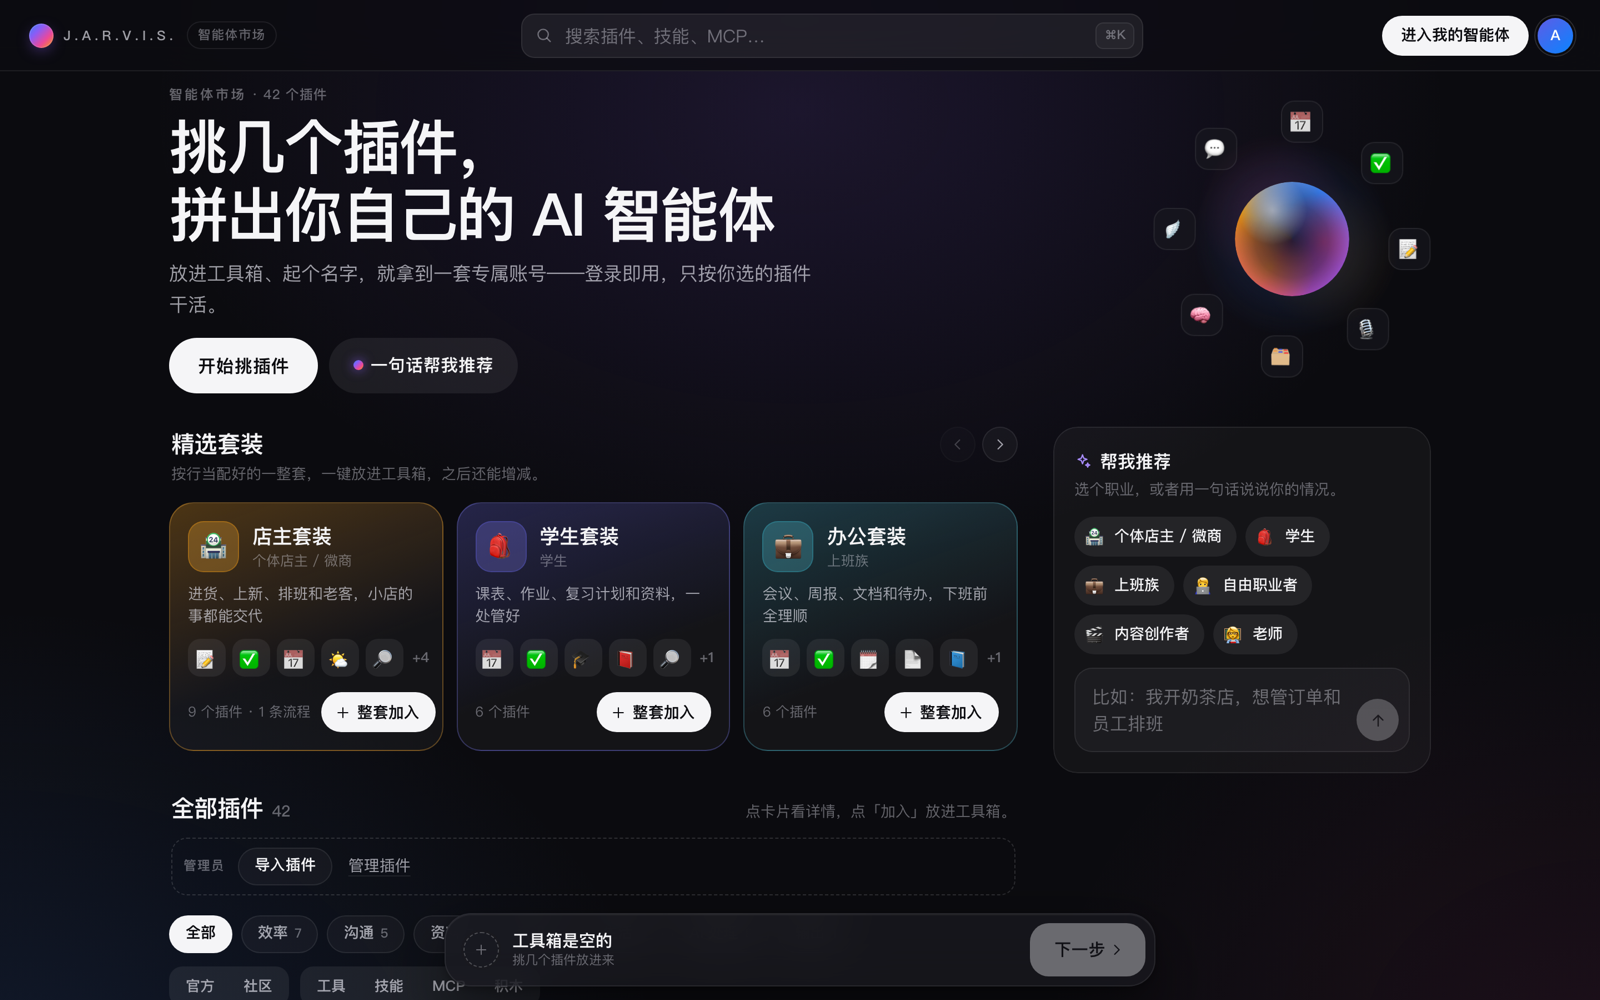
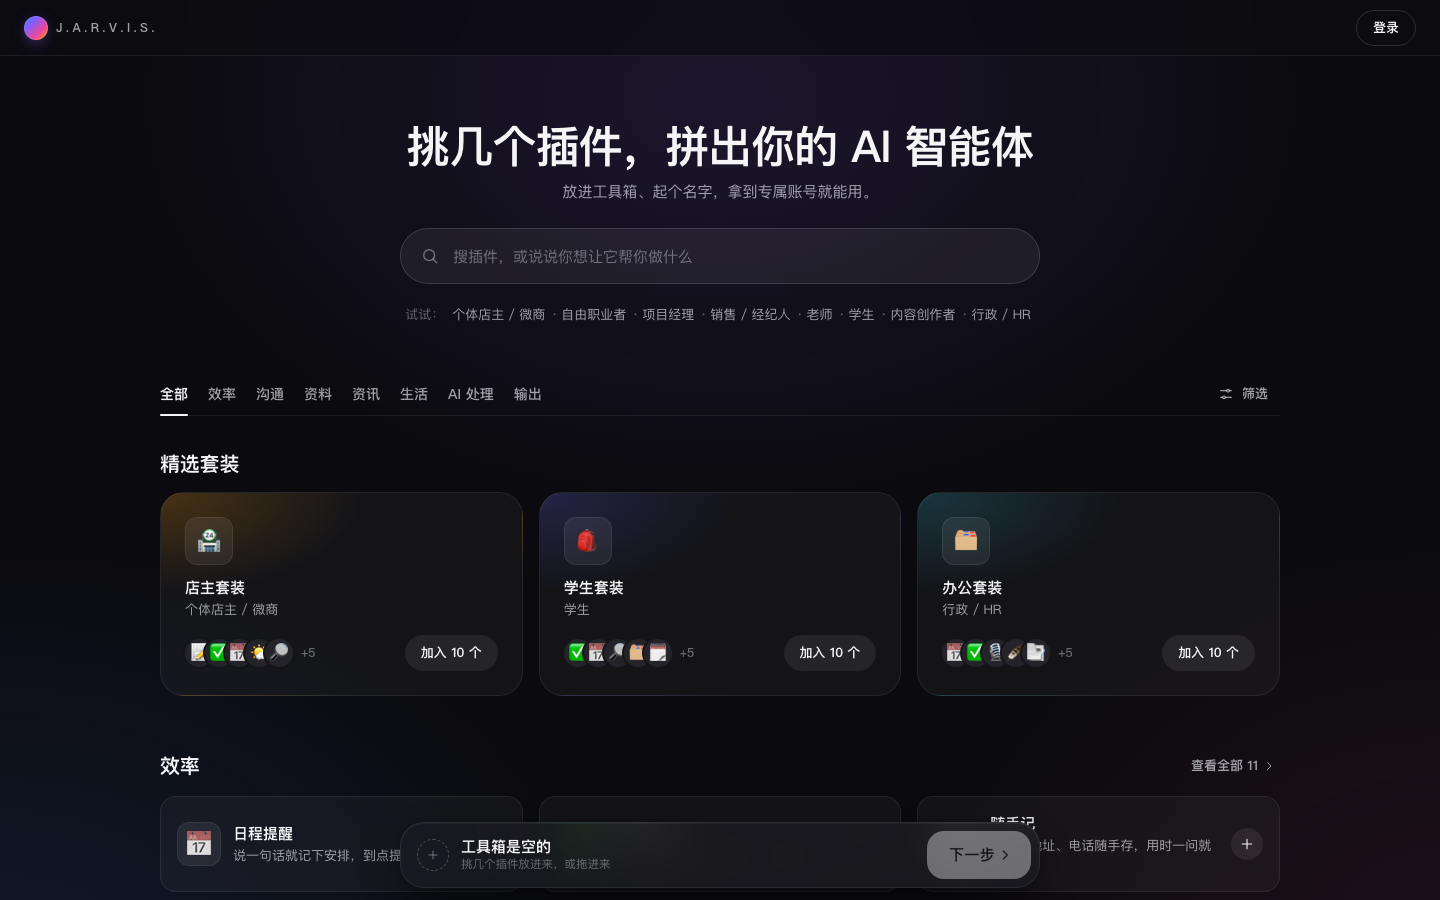
docs: 第十六、十七轮更新日志、功能说明与进度记录；市场首页与拖拽截图

diff --git a/docs/features.md b/docs/features.md
@@ -26,8 +26,9 @@
 
 ### 智能体工坊
 
-- **智能体市场就是首页**：打开网站根地址 `/` 就是市场（不登录也能逛；登录在 `/login`，主应用在 `/app`，旧的 `/market`、`/?u=` 链接自动跳转）。参考 Codex / ChatGPT 的插件目录：顶栏搜索（⌘K 或 `/` 聚焦，名称、示例、工具名都能搜）、精选套装一键整套加入、按分类 × 来源（官方 / 社区 / 插件源）× 类型（工具 / 技能 / MCP / 积木）筛选；插件卡带官方、社区、MCP、技能、专业版、需要配置等徽标。点卡片打开详情（`?plugin=<id>`，可分享、可后退）：能做什么、试试这样问（点一下复制或带去推荐）、需要什么（联网主机、要填的 Key、绑定）、来源与许可证、同类推荐。点「加入」放进底部工具箱，工具箱里能排序、移除，并显示类型分布。
+- **智能体市场就是首页**：打开网站根地址 `/` 就是市场（不登录也能逛；登录在 `/login`，主应用在 `/app`，旧的 `/market`、`/?u=` 链接自动跳转）。版面参考苹果 App Store、华为应用市场、Anthropic 插件目录与 ChatGPT：首屏一句主张、一个大搜索框、分类页签，同屏只有一个实心主按钮。搜索框兼做推荐——输入像一句话（「我开奶茶店，想管订单」）时，下拉第一行是「让 AI 按这句推荐一套」，回车即推荐；空着获焦给出最近搜索和按行当推荐；滚过首屏后顶栏淡入紧凑搜索（⌘K 或 `/` 聚焦）。精选套装一行三张；插件是紧凑行卡（图标、名称、一句话、圆形「+」，徽标最多一个：需要配置 > 暂不可用 > 专业版 > MCP > 社区）；来源与类型收在「筛选」里（手机是底部抽屉）。点卡片打开详情（`?plugin=<id>`，可分享、可后退）：能做什么、试试这样问、需要什么、来源与许可证、同类推荐。
 - **帮我推荐**：选一个职业（个体店主 / 微商、自由职业者、项目经理、销售、老师、学生、内容创作者、行政 / HR），或者用一句话说说自己的情况；有描述时由模型从插件清单里挑（只许选清单里的），并给出理由和推荐流程，「一键全部加入」。
+- **拖拽加入工具箱**：把插件卡或整套套装拖进底部工具箱，工具箱高亮并提示「松手加入 · 将有 N 个」；已在工具箱或需要配置的插件会显示原因、不加入；点「+」时图标飞进工具箱。工具箱抽屉里按住一行拖动排序（生成时按这个顺序装进智能体），拖出抽屉、或把工具箱上的小图标往上拖出即移除，5 秒内可撤销。手机长按卡片约 0.45 秒后拖动，正常滑动不受影响；每个拖拽动作都有按钮 / 键盘替代和读屏播报。
 - **专属账号即智能体**：给智能体起名、选图标和主题色（六选一），生成一套专属账号和口令——只显示这一次，可一键复制两行或存成图片，附一个「在手机上打开」二维码（扫开就是登录页、账号已填好）。用这套账号在现有登录页登录，进去就是按所选插件组装的智能体：对话里只用这些插件的工具（外加时间与计算），以智能体自己的名字自称；顶栏、主题色、问候语、快捷问题、「我的工具箱」「我的流程」都随之定制，「智能体设置」里可改名、换色、增减插件。没装的技能会直说「还没装，可以去智能体市场加上」，并给出替代办法。
 - **开号权限**：管理员登录后可直接在市场里帮客户开号；游客自助开号由 `JARVIS_MARKET_SIGNUP` 控制（`off` 默认 / `invite` 邀请码 / `open`），并有 IP 限流与总量上限，见 [配置参考](configuration.md)。
 - **积木流程**：`/flows` 里把「输入 → 处理 → 输出」拼成一条链：文字输入 / 资料上传（PDF、Word、TXT、MD、图片）→ 文件拆分 / AI 提炼（要点、待办、摘要、周报、改写）→ 加到待办 / 发飞书 / 汇总到飞书文档 / 发微信 / 生成网页二维码。可从职业模板一键新建，节点可增删、前后挪、逐个配置；试运行时信号沿连线流动、节点逐个亮起并给出每步摘要，最后生成一张手机可扫的结果网页（`/r/<token>`，30 天有效，免登录查看）。
@@ -225,8 +226,11 @@
 
 <table>
   <tr>
-    <td width="50%" align="center"><img src="assets/readme/web-market-home.png" alt="智能体市场首页" width="100%"><br><sub>首页即智能体市场：搜索、精选套装、按职业 / 一句话推荐</sub></td>
-    <td width="50%" align="center"><img src="assets/readme/web-market-result.png" alt="生成结果：专属账号口令与已装插件" width="100%"><br><sub>生成结果：专属账号口令（只显示一次）+ 装了哪些插件</sub></td>
+    <td width="50%" align="center"><img src="assets/readme/web-market-home.png" alt="智能体市场首页" width="100%"><br><sub>首页即智能体市场：一个搜索框兼做推荐、精选套装、紧凑插件行</sub></td>
+    <td width="50%" align="center"><img src="assets/readme/web-market-dnd.png" alt="把插件卡拖进底部工具箱" width="100%"><br><sub>拖拽加入：卡片拖到底部工具箱，工具箱高亮提示「松手加入」</sub></td>
+  </tr>
+  <tr>
+    <td colspan="2" align="center"><img src="assets/readme/web-market-result.png" alt="生成结果：专属账号口令与已装插件" width="50%"><br><sub>生成结果：专属账号口令（只显示一次）+ 装了哪些插件</sub></td>
   </tr>
   <tr>
     <td align="center"><img src="assets/readme/web-agent-home.png" alt="登录后的专属智能体主页" width="100%"><br><sub>登录后：按插件定制的智能体主页（名称、主题色、问候、工具箱、流程）</sub></td>

diff --git a/README.md b/README.md
@@ -81,7 +81,7 @@
 <td align="center" colspan="2"><img src="docs/assets/readme/web-mobile.png" alt="手机版：新对话、对话与「今日」板" width="88%"><br><sub>手机版（390×844）：新对话 · 对话 · 「今日」板</sub></td>
 </tr>
 <tr>
-<td align="center"><img src="docs/assets/readme/web-market-home.png" alt="智能体市场首页：搜索、精选套装、帮我推荐" width="100%"><br><sub>首页即智能体市场：搜索、精选套装、按职业 / 一句话推荐</sub></td>
+<td align="center"><img src="docs/assets/readme/web-market-home.png" alt="智能体市场首页：搜索、精选套装、帮我推荐" width="100%"><br><sub>首页即智能体市场：一个搜索框（也能一句话让 AI 推荐）、精选套装、紧凑插件行，拖进底部工具箱即可加入</sub></td>
 <td align="center"><img src="docs/assets/readme/web-flows.png" alt="积木流程运行完成" width="100%"><br><sub>积木流程：节点逐个亮起，跑完给出结果网页二维码</sub></td>
 </tr>
 <tr>
@@ -165,6 +165,19 @@ flowchart LR
 ## 最新动态
 
 <details open>
+<summary><b>第十七轮 · 2026-10-03</b>　插件市场去冗余改版 · 拖拽加入 · 进场动画每次刷新都播</summary>
+<img src="docs/assets/readme/web-market-dnd.png" alt="把插件卡拖进底部工具箱：工具箱高亮并提示松手加入" width="420" align="right">
+
+- **市场去冗余**：参考苹果 App Store、华为应用市场、Anthropic 插件目录与 ChatGPT 的版面，首屏只留一句主张、一个大搜索框和分类页签（首屏信息块 11 → 6，整页高度少四分之一）；同屏只有一个实心主按钮（工具箱的「下一步」）。插件卡改成紧凑行：图标、名称、一句话、圆形「+」，徽标最多一个；精选套装一行三张；手机首屏就能看到插件。「一句话帮我推荐」并进搜索框，来源与类型收进「筛选」，管理员的「插件管理」挪进头像菜单。
+- **拖拽加入**：把插件卡或整套套装拖进底部工具箱，工具箱高亮并提示「松手加入 · 将有 N 个」；已经加过或需要配置的插件拖过去会显示原因、不会加入；点「+」时图标飞进工具箱。工具箱里按住一行拖动排序（生成时按这个顺序装），往外拖或把工具箱上的小图标往上拖出就是移除，5 秒内可撤销；手机长按卡片即可拖动，正常上下滑不受影响。全程键盘可用、读屏有播报，零新依赖。
+- **详情与结果页重做**：插件详情、起名配色、生成账号结果页统一成同一套间距、圆角和按钮层级。
+- **进场动画每次打开或刷新都播**：市场、登录页、主应用、流程页都播（站内切页不重播，品牌智能体入口不播）；系统开了「减弱动态效果」时改为不到 1 秒的静态淡入。
+- 测试基线 **pytest 1482 / vitest 558 / desktop 166**，全部通过；真后端联调 22 项全过。调研与方案见 [`docs/design/2026-10-market-references.md`](docs/design/2026-10-market-references.md)、[`docs/proposals/2026-10-round17-market.md`](docs/proposals/2026-10-round17-market.md)。
+
+<br clear="right">
+</details>
+
+<details>
 <summary><b>第十五轮 · 2026-10-02</b>　市场做首页 · 参考 Codex 重做插件目录 · MCP 接入 · 49 个官方开源插件 · /login</summary>
 
 <img src="docs/assets/readme/web-market-home.png" alt="智能体市场首页：搜索、精选套装、帮我推荐" width="420" align="right">
@@ -193,21 +206,7 @@ flowchart LR
 <br clear="right">
 </details>
 
-<details>
-<summary><b>第十三轮 · 2026-10-02</b>　智能体工坊：插件市场 · 专属账号即智能体 · 积木流程 · 删除 MOSS</summary>
-
-<img src="docs/assets/readme/web-market.png" alt="智能体市场：挑插件、帮我推荐" width="420" align="right">
-
-- **智能体市场**（`/market`）：22 个插件按「效率 / 沟通 / 资料 / 资讯 / 生活 / AI 处理 / 输出」分类，点「加入」进工具箱；「帮我推荐」可选职业，或一句话说说自己（「我开奶茶店，想管订单和员工排班」），AI 只从清单里挑并说明理由，一键全加。
-- **专属账号即智能体**：挑完起个名字，生成一套专属账号和口令（只显示一次，可复制、可存成图片）；在现有登录页登录，进去就是按所选插件组装的智能体——只用这些插件的工具、以自己的名字自称，主页问候、快捷问题、主题色都随之变化。管理员登录后可直接在市场里帮客户开号；游客自助开号默认关闭。
-- **积木流程**（`/flows`）：「输入 → 处理 → 输出」一条链，9 种积木（文字 / 资料上传、文件拆分、AI 提炼、加到待办、发飞书、汇总到飞书文档、发微信、生成网页二维码），按职业套用模板；运行时信号沿连线流动、节点逐个亮起，结果生成手机可扫的网页。
-- **删除 MOSS**：登录页只保留 J.A.R.V.I.S. 形态，人设去掉 MOSS 人格；移除 three.js 依赖，前端产物 1.68MB → 0.71MB。
-- 测试基线 **pytest 1178 / vitest 417 / desktop 149**，全部通过。方案与接口契约见 [`docs/proposals/2026-10-round13-platform.md`](docs/proposals/2026-10-round13-platform.md)。
-
-<br clear="right">
-</details>
-
-更早的更新（第三至第十二轮：手机端修抖、语音拟人化、进场动画、界面改版、飞书接入……）见 [更新日志](CHANGELOG.md)。
+更早的更新（第三至第十三轮：智能体工坊、手机端修抖、语音拟人化、进场动画、飞书接入……）与第十六轮的小修复见 [更新日志](CHANGELOG.md)。
 
 ## 文档
 

diff --git a/PROGRESS.md b/PROGRESS.md
@@ -663,3 +663,19 @@
 - 官方开源插件（MIT-0，`jarvis/plugins/packs/LICENSE`）：新增 15 技能、5 计算工具（纯标准库，政策依据对过 gov.cn）、4 MCP（deepwiki、context7 免 Key；amap、kuaidi100 需 Key）；根目录 `.agents/plugins/marketplace.json` 列出全部 49 个插件（插件源 jws-agent-official）。Owner 不再默认注入内置技能（避免挤满注入额度）。
 - 本机联调（真实模型）：`/` 市场 → DeepWiki 详情 → 管理员代开「开源小帮手」（deepwiki + 周报技能 + 金额大写 + 待办）→ `/login?u=` 登录 → `/app`；DeepWiki 后台自动发现 3 个工具，智能体通过 MCP 列出 python-sdk 文档 12 个章节；金额大写、周报技能正常。联调发现并修：详情页露出 MCP 英文工具名（新增 plugin.json `tool_labels` 与目录 `tool_info`）、「联网」需求重复。
 - 基线 pytest 1482 / vitest 504 / desktop 166 / examples 62。
+
+# 第十六轮（2026-10-02）：市场返回入口与账号菜单修复
+
+- 用户反馈：①进入主应用或登录页后回不到市场；②市场里已登录时点头像没反应、无法退出。
+- 修复：登录页标志与「← 逛逛智能体市场」链接回 `/`；主应用顶栏加「智能体市场」按钮（≤380px 隐藏）；市场头像改为账号菜单（进入我的智能体 / 我的流程 / 退出登录，退出后留在市场；菜单底色不透明，避开父级 backdrop-filter）。线上只读冒烟通过。
+
+# 第十七轮（2026-10-03）：插件市场去冗余改版 + 拖拽加入 + 进场动画每次刷新都播
+
+- 用户要求：市场「太冗余、布局不行」，参考苹果、华为、Anthropic、ChatGPT 的版面；插件要能拖动加入；任务较大，多派代理。契约：`docs/proposals/2026-10-round17-market.md`（地基 5ddfa51：`market/dnd/` 接口桩，先推送再派代理）。
+- 四个代理并行：调研（`docs/design/2026-10-market-references.md` + 36 张参考截图）、版面去冗余（Market / Hero / Featured / Catalog / PluginCard / TopBar / market.css）、拖拽（`market/dnd/` 自写 Pointer Events 引擎 + Toolbox）、详情与结果页（PluginDetail / Brand / Result，样式拆到 detail.css、flow-pages.css）。
+- 版面：首屏信息块 11 → 6、同屏实心主按钮 4 → 1、1440 整页高 4085 → 3072px；「一句话推荐」并进搜索框（像一句话时回车即推荐）；来源 / 类型收进「筛选」（手机底部抽屉）；管理员「插件管理」移进头像菜单；紧凑行卡 + 单徽标优先级；令牌化字号 / 间距 / 圆角 / 阴影 / 时长。
+- 拖拽：`DndRoot({onAdd, canAdd, onReorder, onRemove})`、`useDragSource`、`useDockDrop`、`flyToDock`；鼠标移动 5px 起拖、触摸长按 450ms 起拖（期间移动 8px 视为滚动）；拒绝态说明原因（已在工具箱 / 需要配置 / 暂不可用）；抽屉排序、拖出移除、Dock 图标上拖移除，5 秒撤销（`onAdd(ids, {restore})` 去重追加再挪回原位）；键盘与读屏替代齐全；零新依赖。集成时修：Dock 上方的用法提示会盖住起名步骤提示与生成报错（改为提示让位）。
+- 进场动画：由「只在市场首页、每会话一次、减弱动态时不播」改为每次整页打开 / 刷新都播（市场、登录、主应用、流程页；品牌智能体入口 `/p/<slug>` 不播；减弱动态时 awaken 自降级为 ≤1s 静态淡入；`?intro=off` 仍可关）。
+- 本机真后端联调 22 项全过（`output/round17-e2e/`，含桌面与手机录屏）：各页进场动画、拖入 / 接收态、点 + 飞入、重复与需配置被拒、整套拖入（2 → 10）、抽屉排序、移除撤销回原位、Dock 拖出与撤销、单击卡片开详情、生成账号并登录（智能体插件顺序 = 抽屉里排的顺序）、手机快速滑动不误触、手机长按拖入。
+- 基线 pytest 1482 / vitest 558 / desktop 166 / examples 62。
+

diff --git a/CHANGELOG.md b/CHANGELOG.md
@@ -3,6 +3,26 @@
 [← 返回 README](README.md) · 逐轮开发与验收记录见 [`PROGRESS.md`](PROGRESS.md)，当前未解决事项见 [`BLOCKED.md`](BLOCKED.md)。
 
 <details open>
+<summary><b>第十七轮 · 2026-10-03</b>　插件市场去冗余改版 · 拖拽加入 · 进场动画每次刷新都播</summary>
+<img src="docs/assets/readme/web-market-dnd.png" alt="把插件卡拖进底部工具箱：工具箱高亮并提示松手加入" width="420" align="right">
+
+- **市场去冗余**：参考苹果 App Store、华为应用市场、Anthropic 插件目录与 ChatGPT 的版面，首屏只留一句主张、一个大搜索框和分类页签（首屏信息块 11 → 6，整页高度少四分之一）；同屏只有一个实心主按钮（工具箱的「下一步」）。插件卡改成紧凑行：图标、名称、一句话、圆形「+」，徽标最多一个；精选套装一行三张；手机首屏就能看到插件。「一句话帮我推荐」并进搜索框，来源与类型收进「筛选」，管理员的「插件管理」挪进头像菜单。
+- **拖拽加入**：把插件卡或整套套装拖进底部工具箱，工具箱高亮并提示「松手加入 · 将有 N 个」；已经加过或需要配置的插件拖过去会显示原因、不会加入；点「+」时图标飞进工具箱。工具箱里按住一行拖动排序（生成时按这个顺序装），往外拖或把工具箱上的小图标往上拖出就是移除，5 秒内可撤销；手机长按卡片即可拖动，正常上下滑不受影响。全程键盘可用、读屏有播报，零新依赖。
+- **详情与结果页重做**：插件详情、起名配色、生成账号结果页统一成同一套间距、圆角和按钮层级。
+- **进场动画每次打开或刷新都播**：市场、登录页、主应用、流程页都播（站内切页不重播，品牌智能体入口不播）；系统开了「减弱动态效果」时改为不到 1 秒的静态淡入。
+- 测试基线 **pytest 1482 / vitest 558 / desktop 166**，全部通过；真后端联调 22 项全过。调研与方案见 [`docs/design/2026-10-market-references.md`](docs/design/2026-10-market-references.md)、[`docs/proposals/2026-10-round17-market.md`](docs/proposals/2026-10-round17-market.md)。
+
+<br clear="right">
+</details>
+
+<details>
+<summary><b>第十六轮 · 2026-10-02</b>　市场返回入口与账号菜单修复</summary>
+
+- 登录页左上角标志和「← 逛逛智能体市场」可回到市场；主应用顶栏新增「智能体市场」按钮（很窄的手机上隐藏）。
+- 已登录时点市场右上角头像弹出账号菜单：进入我的智能体、我的流程、退出登录；退出后留在市场。
+</details>
+
+<details>
 <summary><b>第十五轮 · 2026-10-02</b>　市场做首页 · 参考 Codex 重做插件目录 · MCP 接入 · 49 个官方开源插件 · /login</summary>
 
 <img src="docs/assets/readme/web-market-home.png" alt="智能体市场首页：搜索、精选套装、帮我推荐" width="420" align="right">
